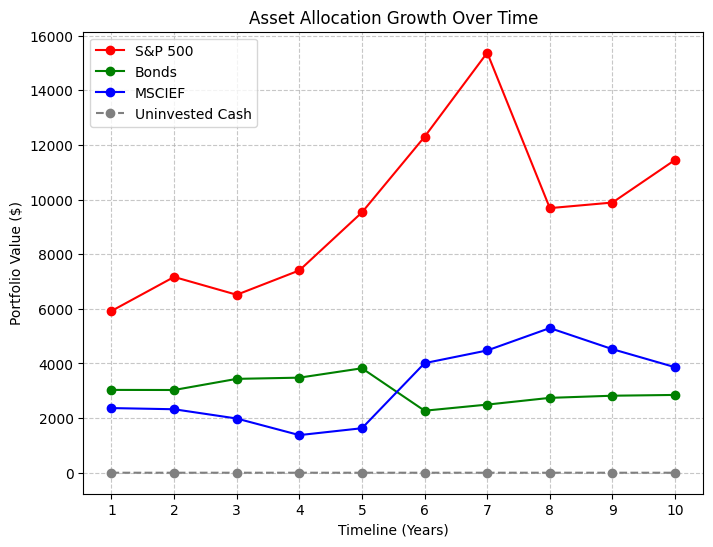
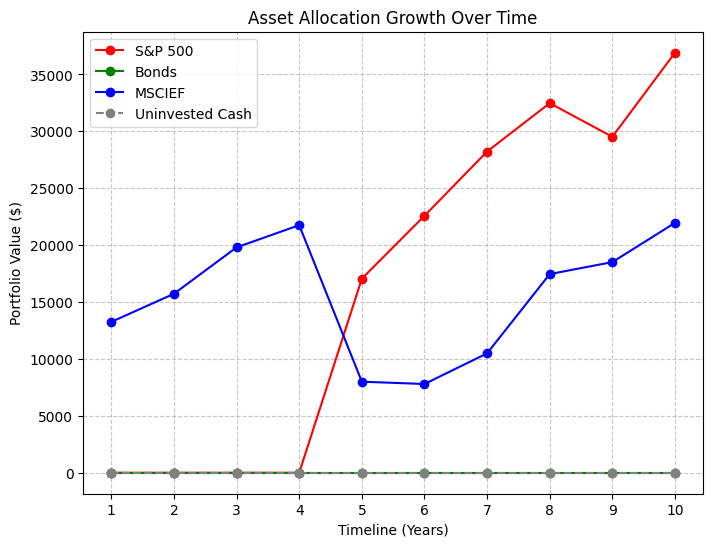
Fixed int/float bug in Week3/Game.py

diff --git a/Week3/Game.py b/Week3/Game.py
@@ -19,7 +19,7 @@ SAVINGS_FUNDS = 0
 def welcome() -> None:
     message = f"""\nWelcome to your simulation for Week 3! This is a simple game illustrating loss aversion.
 \nYou start with $10K in checkings.
-You can, at any time, move money from your checkings to your game funds. Every turn, the money you have in the game
+You can, at any time, move money from your checkings to your game funds or savings. Every turn, the money you have in the game
 can either double or halve. After each turn, you can move money from your game funds to your savings. Once you put money
 in savings, it can never be taken out of savings. You can choose at any time to end the game, and your total portfolio value will be shown.
 \nHave fun and consider your potential wins and losses!"""
@@ -41,7 +41,7 @@ if __name__ == "__main__":
         print(f"Savings Funds: ${SAVINGS_FUNDS:.2f}")
 
         if CHECKING_FUNDS > 0:
-            checking_to_game = int(input("How much money would you like to transfer from checking funds to game funds: "))
+            checking_to_game = float(input("How much money would you like to transfer from checking funds to game funds: "))
 
             if checking_to_game <= CHECKING_FUNDS:
                 GAME_FUNDS += checking_to_game
@@ -49,7 +49,7 @@ if __name__ == "__main__":
             else:
                 print("Not enough funds in checking, skipping...")
 
-            checking_to_saving = int(input("How much money would you like to transfer from checkings to savings: "))
+            checking_to_saving = float(input("How much money would you like to transfer from checkings to savings: "))
 
             if checking_to_saving <= CHECKING_FUNDS:
                 CHECKING_FUNDS -= checking_to_saving
@@ -68,7 +68,7 @@ if __name__ == "__main__":
                 print("-> UNLUCKY TURN! Your game funds halved!")
 
             print(f"Game Funds after event: ${GAME_FUNDS:.2f}")
-            game_to_saving = int(input("How much money would you like to transfer from game funds to savings: "))
+            game_to_saving = float(input("How much money would you like to transfer from game funds to savings: "))
             if game_to_saving <= GAME_FUNDS:
                 GAME_FUNDS -= game_to_saving
                 SAVINGS_FUNDS += game_to_saving

diff --git a/Week2/Investment_Sim.py b/Week2/Investment_Sim.py
@@ -55,17 +55,16 @@ def play_out_year() -> tuple[float, float, float]:
     investment_Bonds *= (1 + return_Bonds / 100)
     investment_MSCIEF *= (1 + return_MSCIEF / 100)
     INITIAL_MONEY = investment_SP + investment_Bonds + investment_MSCIEF
-    
     return return_SP, return_Bonds, return_MSCIEF
 
 def allocate_funds() -> None:
     global INITIAL_MONEY, investment_SP, investment_Bonds, investment_MSCIEF
     print(f"\nTotal available funds to allocate: ${INITIAL_MONEY:.2f}")
-    
+
     investment_SP = float(input("Amount to invest in S&P 500: $"))
     investment_Bonds = float(input("Amount to invest in Bonds: $"))
     investment_MSCIEF = float(input("Amount to invest in MSCIEF: $"))
-        
+
 if __name__ == "__main__":
     if(input("Do you want to see the intro (y/n): ")).lower() == "y":
         welcome()
@@ -112,7 +111,7 @@ if __name__ == "__main__":
         ax.legend(loc='upper left')
         ax.grid(True, linestyle='--', alpha=0.7)
         
-        fig.savefig('portfolio_growth.png', bbox_inches='tight')
+        fig.savefig('./Week2/portfolio_growth.png', bbox_inches='tight')
 
         total_pct_change = ((INITIAL_MONEY - portfolio_starting_value) / portfolio_starting_value) * 100
         
@@ -139,4 +138,3 @@ if __name__ == "__main__":
     print("SIMULATION ENDED")
     print(f"Final Account Yield Balance: ${INITIAL_MONEY:.2f}")
     print("="*40)
-    fig.savefig('./Week2/portfolio_growth.png', bbox_inches='tight')
